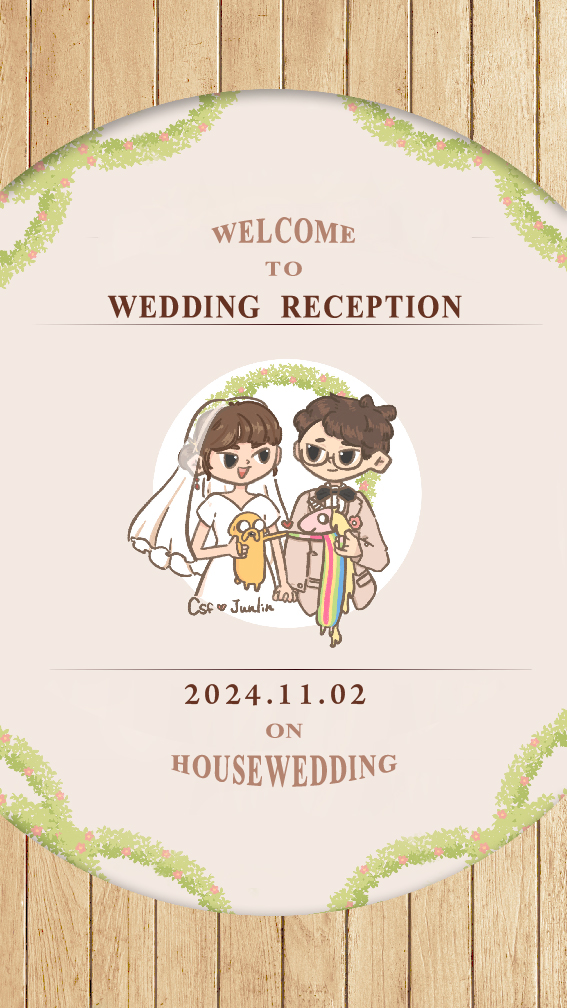
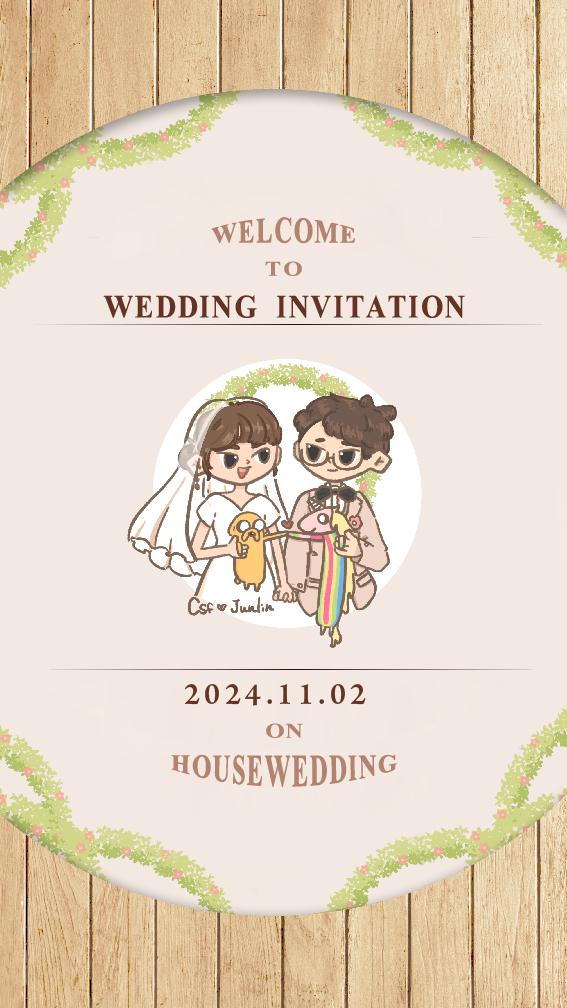
fix 'wedding reception' to 'wedding invitation'

Changed region(s): [[0.4797, 0.2768, 0.8395, 0.3383], [0.1799, 0.2768, 0.4497, 0.3383]]

diff --git a/index.html b/index.html
@@ -4,12 +4,12 @@
     <meta charset="UTF-8">
     <meta name="viewport" content="width=device-width, initial-scale=1.0">
     <meta property="og:title" content="JunLin & ShuFei 婚宴" />
-    <meta property="og:description" content="電子喜帖啦～" />
-	<meta property="og:image" content="https://jun-lin-coder.github.io/junlin-shufei-wedding-reception/images/icon-wedding-reception.png" />
-    <meta property="og:url" content="https://jun-lin-coder.github.io/junlin-shufei-wedding-reception/" />
+    <meta property="og:description" content="是電子喜帖啦～" />
+	<meta property="og:image" content="https://jun-lin-coder.github.io/junlin-shufei-wedding-invitation/images/icon-wedding-invitation.png" />
+    <meta property="og:url" content="https://jun-lin-coder.github.io/junlin-shufei-wedding-invitation/" />
     <meta property="og:type" content="website" />
     <title>JunLin & ShuFei 婚宴</title>
-    <link rel="icon" href="images/icon-wedding-reception.png" type="image/png">
+    <link rel="icon" href="images/icon-wedding-invitation.png" type="image/png">
     <link rel="stylesheet" type="text/css" href="css/styles.css">
 </head>
 <body>
